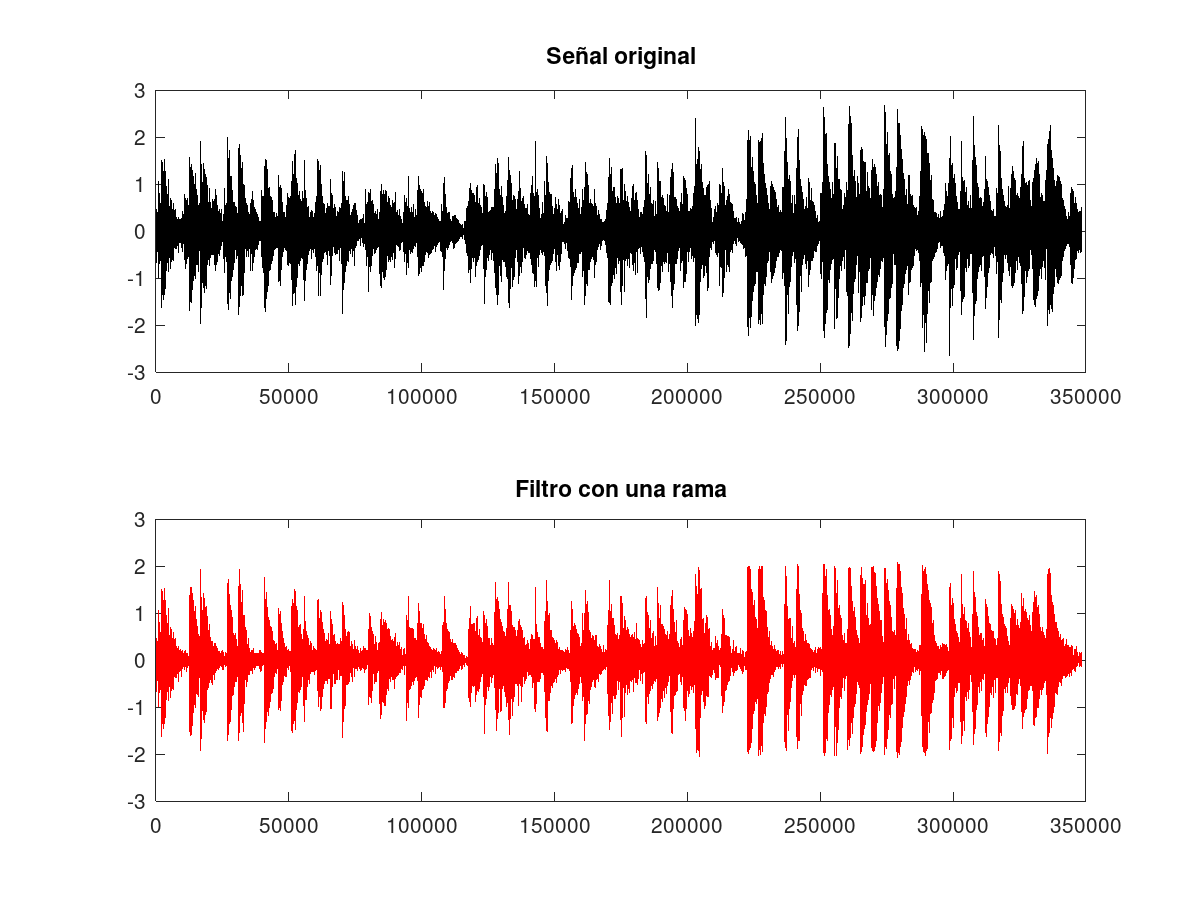
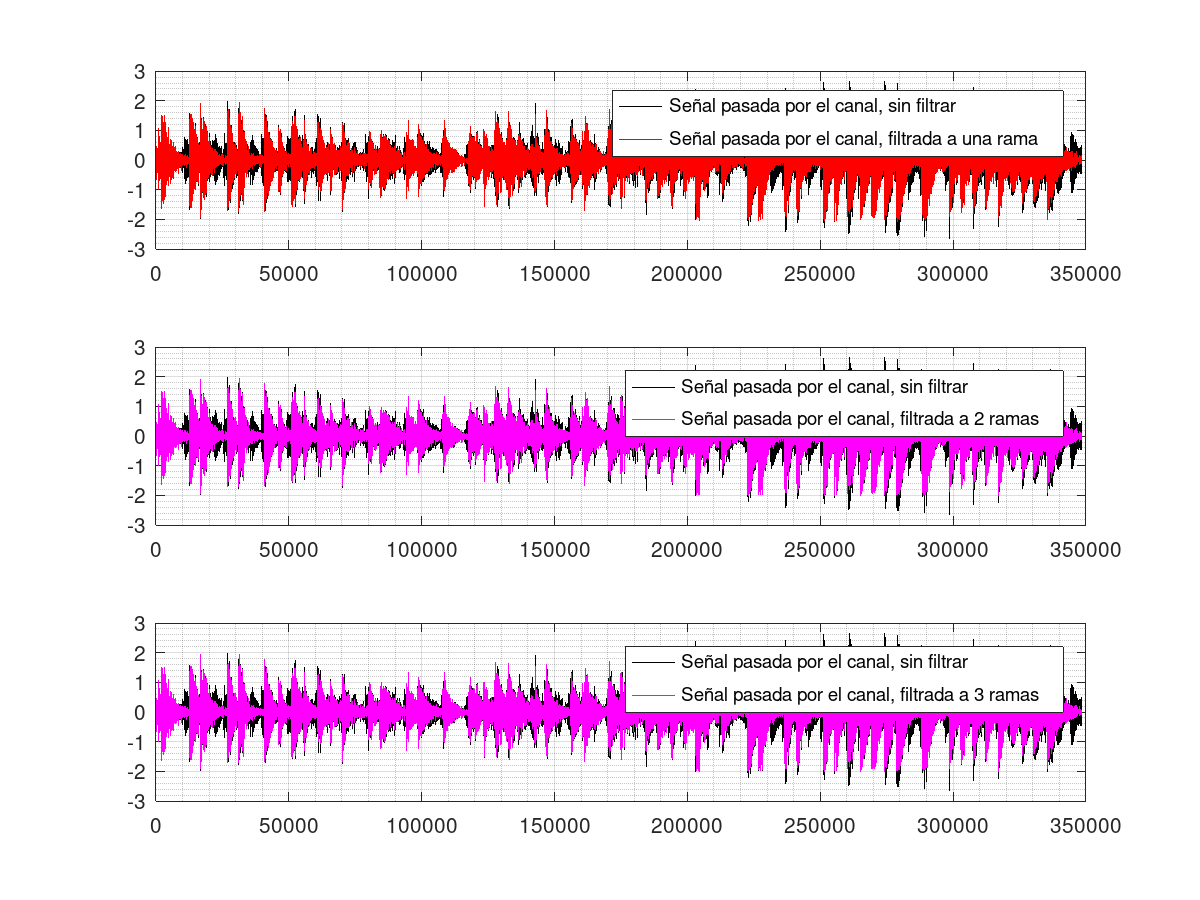
DALE SUBI

Changed region(s): [[0.0925, 0.0311, 0.925, 0.8711]]

diff --git a/PU-Ballardini-Peinetti/Ejercicio2/Inciso5.m b/PU-Ballardini-Peinetti/Ejercicio2/Inciso5.m
@@ -5,30 +5,32 @@ salida_filtrada_1 = filtrado_1_rama(y);
 salida_filtrada_2 = filtrado_2_ramas(y);
 salida_filtrada_3 = filtrado_3_ramas(y);
 
+# DESCOMENTAR PARA ESCUCHAR
 %% Graficamos los resultados obtenidos
 figure,
-subplot(2,1,1), plot(y, 'k');
-title('Señal original');
-
-subplot(2,1,2), plot(salida_filtrada_1, 'r');
-title('Filtro con una rama');
+subplot(3,1,1);
+title('Comparación de la señal original pasa por un canal sin filtro, con la misma señal filtrada');
+plot(y, 'k');
+hold on;
+grid on;
+grid minor;
+plot(salida_filtrada_1, 'r');
+legend('Señal pasada por el canal, sin filtrar', 'Señal pasada por el canal, filtrada a una rama');
 ##sound(salida_filtrada_1(:,1), fs);
-print -f7 -dpng figura_7
 
-figure,
-subplot(2,1,1), plot(y, 'k');
-title('Señal original');
-
-subplot(2,1,2), plot(salida_filtrada_2, 'g');
-title('Filtro con dos ramas');
+subplot(3,1,2), plot(y, 'k');
+hold on;
+grid on;
+grid minor;
+plot(salida_filtrada_2, 'm');
+legend('Señal pasada por el canal, sin filtrar', 'Señal pasada por el canal, filtrada a 2 ramas');
 ##sound(salida_filtrada_2(:,1), fs);
-print -f8 -dpng figura_8
 
-figure,
-subplot(2,1,1), plot(y, 'k');
-title('Señal original');
-
-subplot(2,1,2), plot(salida_filtrada_3, 'm');
-title('Filtro con 3 ramas');
+subplot(3,1,3), plot(y, 'k');
+hold on;
+grid on;
+grid minor;
+plot(salida_filtrada_3, 'm');
+legend('Señal pasada por el canal, sin filtrar', 'Señal pasada por el canal, filtrada a 3 ramas');
 ##sound(salida_filtrada_3(:,1), fs);
-print -f9 -dpng figura_9
+print -f7 -dpng figura_7

diff --git a/P6/ej3.m b/P6/ej3.m
@@ -1,0 +1,14 @@
+##k = 10;
+n = linspace(0,k);
+##x = tri(0, 3);
+##intv1 = [-6 6];
+##pfx = repmat(x(n), 1, diff(intv1)/3);
+##px = linspace(intv1(1), intv1(2), length(pfx));
+##xn = tri(n - k);
+##
+##figure 1
+##plot(px, pfx)
+##grid
+
+x = sawtooth(n);
+plot(n, x);

diff --git a/tri.m b/tri.m
@@ -1,3 +1,3 @@
 function h = tri(t)
-  h = (t+1).*(t >= -1 & t < 0) + (-t+1).*(t >= 0 & t < 1) + (0);
+  h = (t+1).*(t >= -1 & t < 0) + (-t+1).*(t >= 0 & t < 1);
 end
